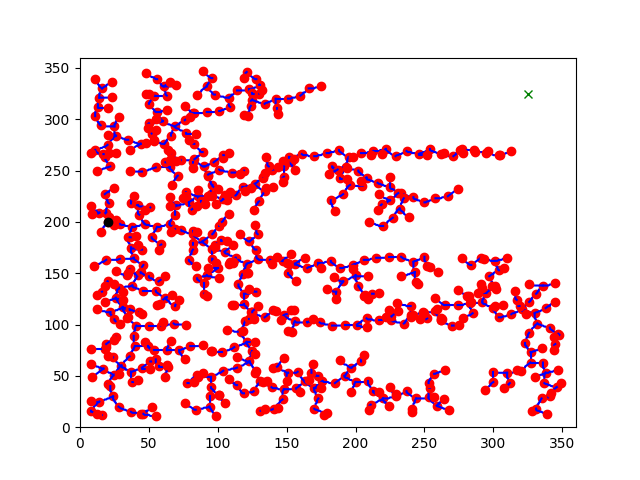
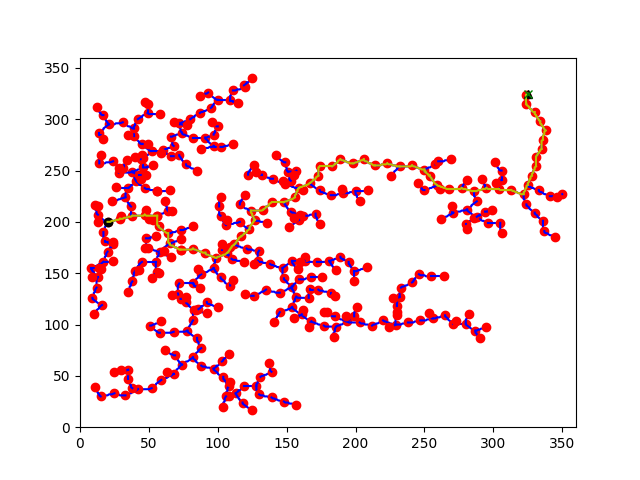
Waypoints return and some ik

Changed region(s): [[0.125, 0.125, 0.9062, 0.875], [0.8125, 0.1875, 0.8438, 0.25]]

diff --git a/controllers/grocery_shopper/grocery_shopper.py b/controllers/grocery_shopper/grocery_shopper.py
@@ -18,21 +18,21 @@ m = Manager()
 
 Localization    = Localization(m)
 Mapping         = Mapping(m)
-Slam            = SLAM(m)
+# Slam            = SLAM(m)
 Device          = Device(m)
 RobotController = RobotController(m)
 
 m.Localization    = Localization
 m.Mapping         = Mapping
-m.Slam            = SLAM
+# m.Slam            = SLAM
 m.Device          = Device
 m.RobotController = RobotController
 
 # # Initialize the Webots Supervisor.
-# supervisor = Supervisor()
-# timeStep = Device.robot_step()
+supervisor = Supervisor()
+timeStep = Device.robot_step()
 
-# Maniplation = Manipulation(4, supervisor, timeStep)
+Maniplation = Manipulation(4, supervisor, timeStep)
 
 m.RobotController.set_waypoints([
     (  4.80,  0.00,  0.00),

diff --git a/controllers/grocery_shopper/components/planning.py b/controllers/grocery_shopper/components/planning.py
@@ -164,6 +164,17 @@ class Planning:
 
         return node_list
 
+    def getWaypoints(self, nodes):
+        # list of waypoints in map coords, tulpes with (x, y, theta)
+        waypoints = []
+        currNode = nodes[len(nodes) - 1]
+        while (currNode.parent != None):
+            tempList = []
+            for point in currNode.path_from_parent:
+                tempList.append((point[0], point[1], 0))
+            waypoints = tempList + waypoints
+        return waypoints
+
 if __name__ == "__main__":
     planner = Planning()
     K = 1000 # Feel free to adjust as desired
